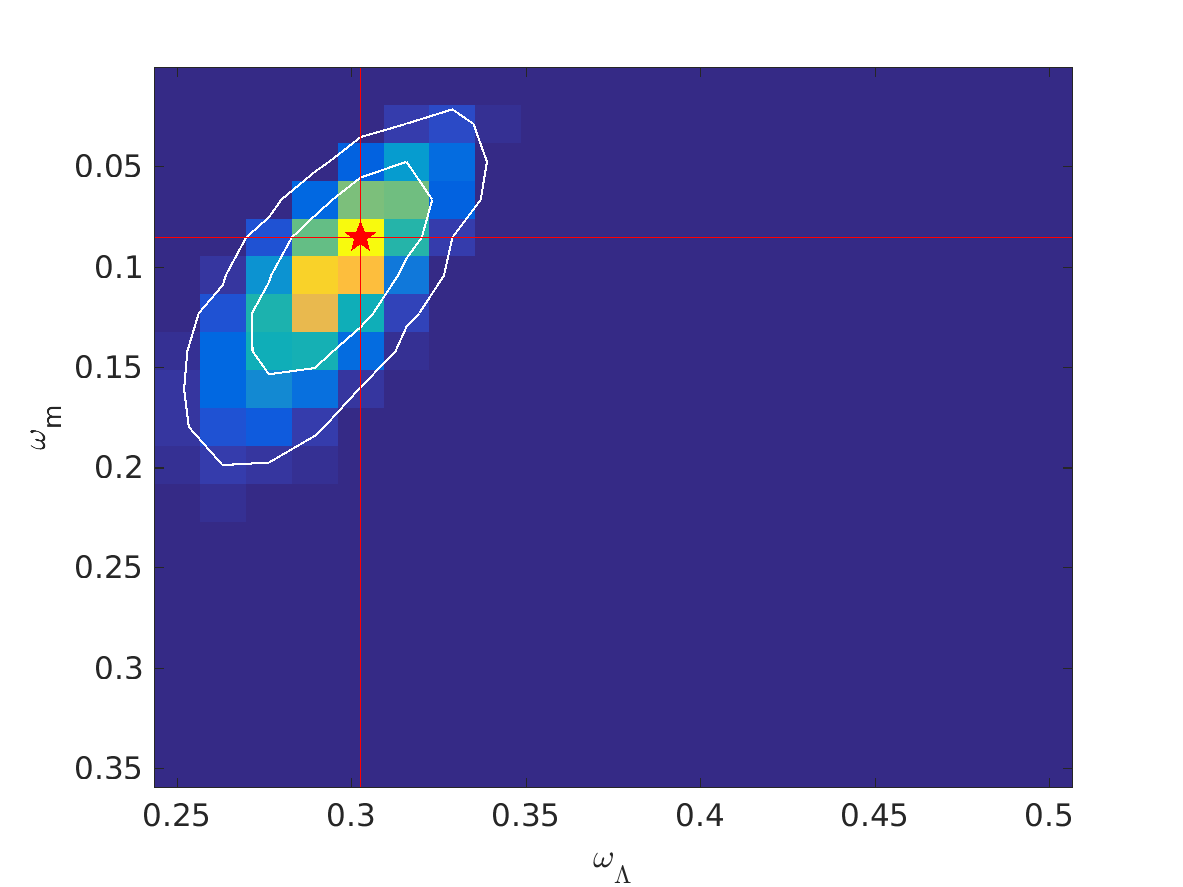
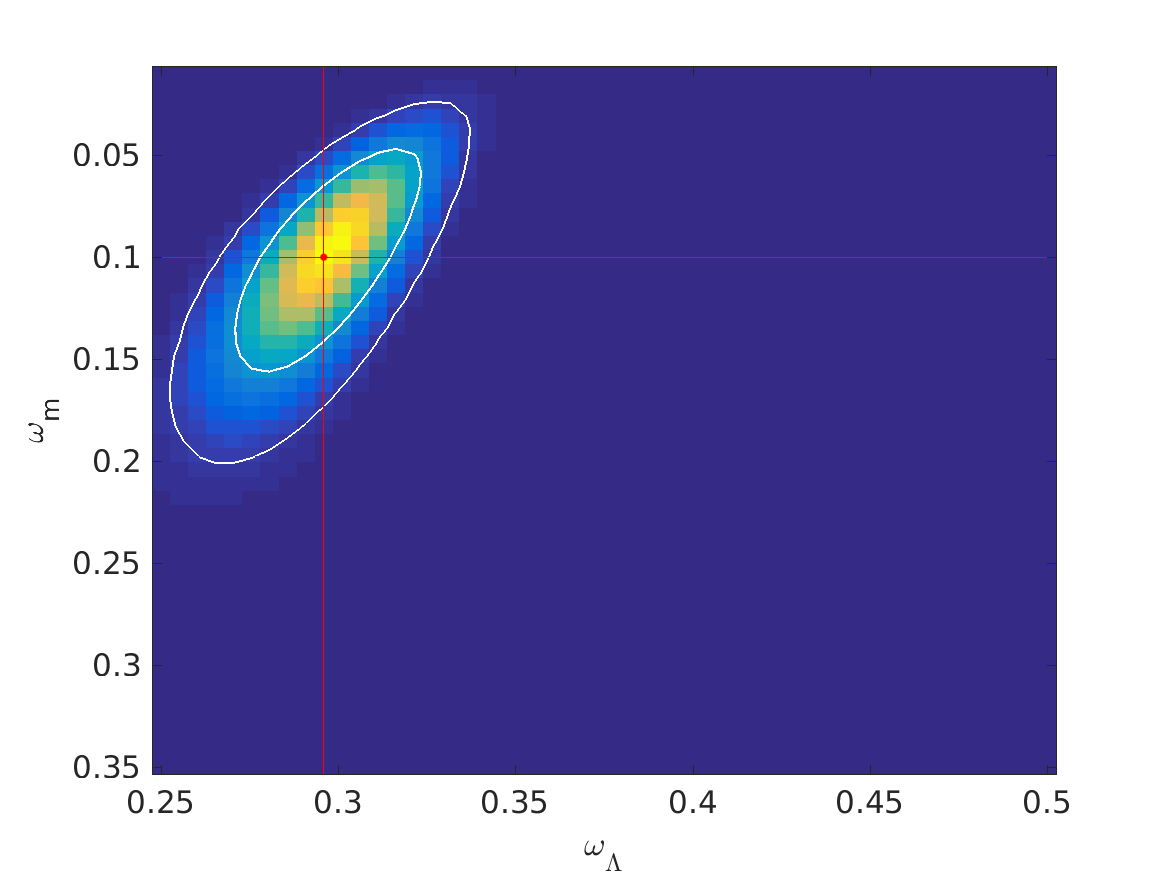
fixed a bug in confidence_reg so the max liklihood is emphisized, cranked up resolution to 50x50 cells

diff --git a/HW4/confidence_reg.m b/HW4/confidence_reg.m
@@ -11,11 +11,14 @@ f=figure()
 imagesc(cosmo.omega_l_today, cosmo.omega_m_today, prob);
 hold on
 contour(cosmo.omega_l_today, cosmo.omega_m_today, prob, [sort_prob(level_68(1)), sort_prob(level_954(1))], 'LineColor','w', 'LineWidth',1)
-line([cosmo.omega_l_today(row),cosmo.omega_l_today(row)],get(gca, 'ylim'),'Color','red')
-line(get(gca, 'xlim'),[cosmo.omega_m_today(col),cosmo.omega_m_today(col)],'Color','red')
-plot(cosmo.omega_l_today(row), cosmo.omega_m_today(col),'rp','MarkerFaceColor','red','MarkerSize',15)
+line([cosmo.omega_l_today(col),cosmo.omega_l_today(col)],get(gca, 'ylim'),'Color','red')
+line(get(gca, 'xlim'),[cosmo.omega_m_today(row),cosmo.omega_m_today(row)],'Color','red')
+plot(cosmo.omega_l_today(col), cosmo.omega_m_today(row),'r.','MarkerFaceColor','red','MarkerSize',10)
 xlabel('\omega_{\Lambda}')
 ylabel('\omega_m')
+
+omega_l_max = cosmo.omega_l_today(col)
+omega_m_max = cosmo.omega_m_today(row)
 set(gca,'FontSize',15)
 saveas(f,'confidence_reg.png')
 hold off

diff --git a/HW4/hw4.m b/HW4/hw4.m
@@ -33,18 +33,19 @@ chisq(0,chisq_par)
 mu_off=fminsearch(@(x) chisq(x, chisq_par) , 0)
 model_fit=chisq(mu_off,chisq_par)
 
+elements=50;
 %now calculate a chisq grid. initialize w zeros
-chisq_grid = zeros(19,20);
+chisq_grid = zeros(elements);
 %initialize arrays to hold omegas for today
-omega_m_today = linspace(0.01,0.35,19);
-omega_l_today = linspace(0.25,0.50,20);
+omega_m_today = linspace(0.01,0.35,elements);
+omega_l_today = linspace(0.25,0.50,elements);
 
 %controls omega_m_today
-for i = 1:19
+for i = 1:elements
      par.m = omega_m_today(i);
 
      %controls omega_l_today
-     for k = 1:20
+     for k = 1:elements
           par.l = omega_l_today(k);
           par.k = .65^2 - par.l - par.r - par.m;
 
@@ -118,3 +119,9 @@ set(gca,'fontsize',15)
 xlim([-inf inf])
 ylim([-inf inf])
 saveas(f,'Rel_Prob.png')
+
+%save the chisq grid
+cosmo.chisq = chisq_grid;
+cosmo.omega_m_today = omega_m_today;
+cosmo.omega_l_today = omega_l_today;
+save cosmo.mat cosmo
